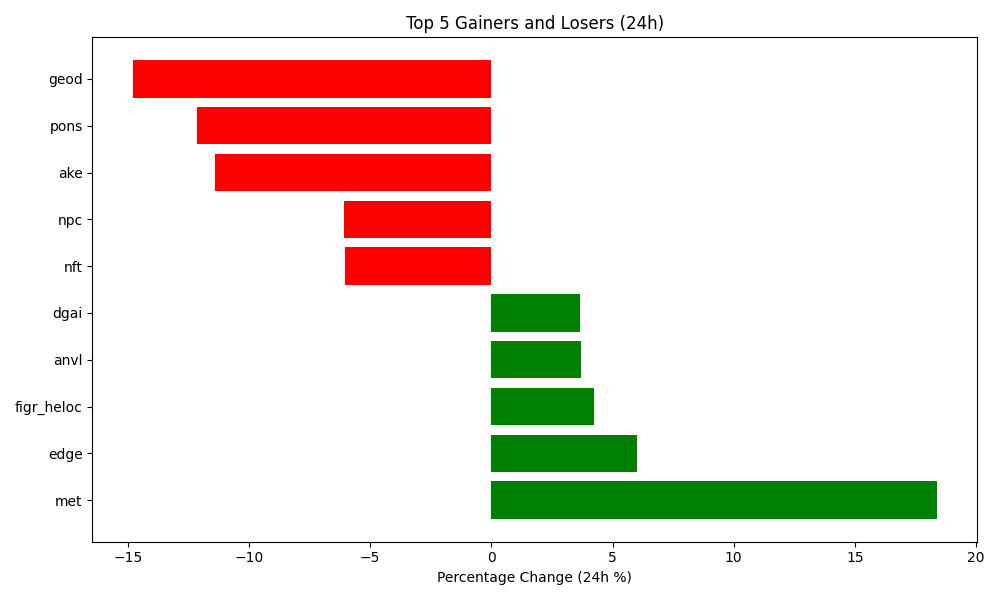
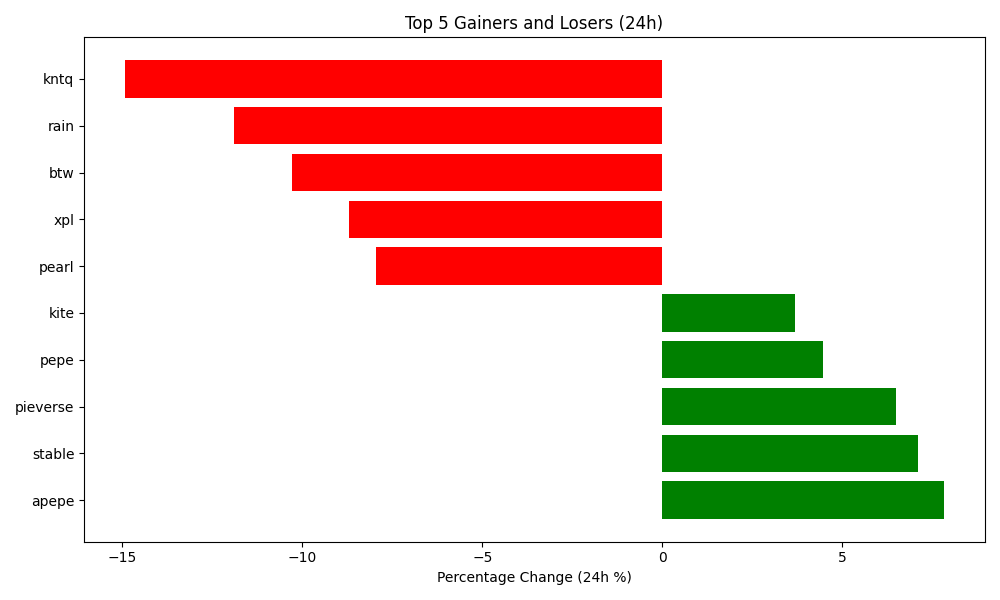
Auto-update crypto data and plot

diff --git a/README.md b/README.md
@@ -4,7 +4,7 @@ Author: Hitesh Agrawal
 This repository automatically tracks the top 5 gaining, top 5 losing, and top 5 highest volume cryptocurrencies in the last 24 hours using the CoinGecko API, Python, Matplotlib, and GitHub Actions updates the below content everyday at midnight.
 
 <!-- START_DYNAMIC_CONTENT -->
-Last updated: 2026-11-08 03:43 UTC
+Last updated: 2026-11-09 03:56 UTC
 
 ![Crypto Movers Plot](crypto_movers_plot.png)
 
@@ -12,33 +12,33 @@ Last updated: 2026-11-08 03:43 UTC
 
 | Rank | Coin | Price Change (24h %) | Volume (USD) | Current Price (USD) |
 | :--: | :--: | :------------------: | :----------: | :-----------------: |
-| 1 | met | 18.38% | $55,951,984 | $0.3263 |
-| 2 | edge | 6.00% | $1,285,334 | $0.3299 |
-| 3 | figr_heloc | 4.25% | $3,110,320 | $1.0660 |
-| 4 | anvl | 3.69% | $91,945 | $0.0020 |
-| 5 | dgai | 3.65% | $25,792,181 | $0.7706 |
+| 1 | apepe | 7.82% | $12,132,553 | $0.0000 |
+| 2 | stable | 7.10% | $7,049,924 | $0.0272 |
+| 3 | pieverse | 6.50% | $6,540,502 | $1.4800 |
+| 4 | pepe | 4.47% | $413,323,648 | $0.0000 |
+| 5 | kite | 3.68% | $8,526,310 | $0.1095 |
 
 
 **👇 Top 5 Losers (24h)**
 
 | Rank | Coin | Price Change (24h %) | Volume (USD) | Current Price (USD) |
 | :--: | :--: | :------------------: | :----------: | :-----------------: |
-| 1 | geod | -14.79% | $16,510,052 | $0.2374 |
-| 2 | pons | -12.14% | $14,737,195 | $0.1714 |
-| 3 | ake | -11.40% | $94,471,633 | $0.0052 |
-| 4 | npc | -6.06% | $1,687,288 | $0.0144 |
-| 5 | nft | -6.04% | $9,318,728 | $0.0000 |
+| 1 | kntq | -14.93% | $10,709,029 | $0.4102 |
+| 2 | rain | -11.91% | $13,300,816 | $0.0049 |
+| 3 | btw | -10.30% | $8,445,333 | $1.1100 |
+| 4 | xpl | -8.70% | $39,568,886 | $0.0516 |
+| 5 | pearl | -7.97% | $9,563,988 | $1.6300 |
 
 
 **💎 Top 5 by Trade Volume (24h)**
 
 | Rank | Coin | Price Change (24h %) | Volume (USD) | Current Price (USD) |
 | :--: | :--: | :------------------: | :----------: | :-----------------: |
-| 1 | usdt | -0.02% | $18,928,754,423 | $0.9990 |
-| 2 | btc | 0.05% | $10,823,156,597 | $75,784.0000 |
-| 3 | usdc | -0.01% | $4,649,688,863 | $0.9996 |
-| 4 | eth | -0.19% | $3,872,637,034 | $2,235.1300 |
-| 5 | xrp | 0.62% | $1,114,179,351 | $1.1600 |
+| 1 | usdt | 0.01% | $35,141,902,507 | $0.9991 |
+| 2 | btc | -1.20% | $20,115,329,883 | $74,889.0000 |
+| 3 | eth | -4.19% | $10,147,479,933 | $2,141.7200 |
+| 4 | usdc | -0.01% | $7,741,508,959 | $0.9994 |
+| 5 | sol | -1.79% | $2,155,515,856 | $87.5500 |
 
 
 <!-- END_DYNAMIC_CONTENT -->
